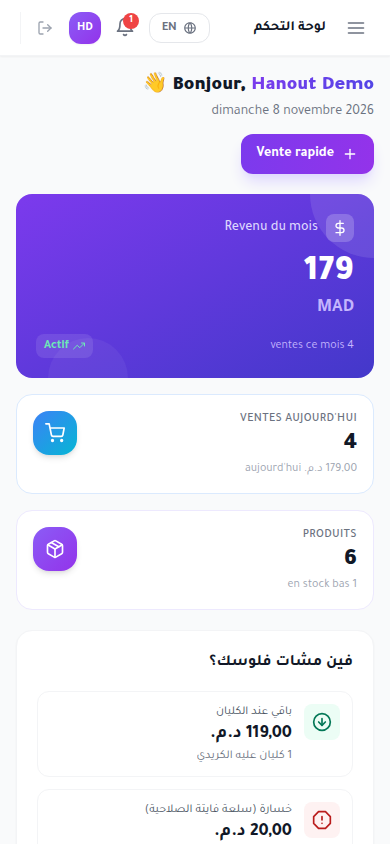
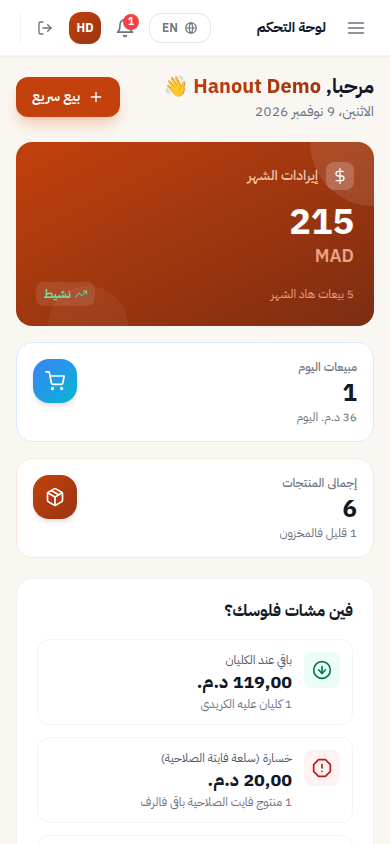
docs: refresh screenshots, README, executive report and audit status for passes 2-3
Claude-Session: https://claude.ai/code/session_01UfTiphmez7jrvMp4zFnNuu

diff --git a/docs/audit/REPORT.md b/docs/audit/REPORT.md
@@ -54,3 +54,44 @@ stack complète (Timescale, Weaviate, Celery) non lancée pendant la session (AP
 3. Obtenir un avis juridique sur la carte Souk.AI et choisir : partenaire agréé ou retrait.
 4. Mettre les rappels WhatsApp en conformité (opt-in, template utilitaire, fréquence hebdomadaire).
 5. Ajouter TVA par produit + traduction complète EN, prérequis pour un 2e marché.
+
+
+---
+
+## Passes 2 et 3 (2026-11-09) — logique métier, produit, marque
+
+**Correction d'une affirmation de la passe 1.** La protection contre la double vente du dernier article
+(`c109cd3`) ne fonctionnait pas de façon fiable : le verrou était pris, mais SQLAlchemy renvoyait l'objet déjà en
+mémoire avec une quantité périmée. Mesuré sur la suite complète : survente 4 fois sur 4 sans correctif, 0 sur 4 avec
+(`populate_existing` sur toutes les lectures verrouillées).
+
+| Domaine | Avant | Après |
+|---|---|---|
+| Bénéfice net mensuel | achats fournisseurs **et** coût des ventes soustraits (double comptage) | ventes − retours − coût des ventes − salaires (mois en cours au prorata) |
+| « Aujourd'hui » / « ce mois » | en UTC (jusqu'à 5 h d'écart aux US) | fuseau du commerçant |
+| Retours dans CA et marges | ignorés | déduits partout |
+| Marges passées | recalculées au coût actuel | coût figé à la vente |
+| Livraison fournisseur | ne touchait pas le stock | stock + coût moyen pondéré, une seule fois |
+| Ventes WhatsApp | sans contrôle de stock, plantage en cas d'erreur | même chemin que la caisse, réponse explicite |
+| Marketplace | pas de machine à états (annulations multiples = stock dupliqué) | transitions explicites + verrous |
+| Ajustement de stock | pouvait rendre le stock négatif ; changement de seuil en erreur 500 | refusé sous zéro, journalisé ; seuil corrigé |
+| Fusion de produits | fusion avec soi-même = stock détruit | refusée ; coût moyen pondéré |
+| Rappels WhatsApp | quotidiens, sans consentement | hebdomadaires, opt-in du client |
+| TVA | inexistante | taux par produit figé à la vente, rapport mensuel par taux, ventilation sur le ticket |
+| Tests | 44 + 2 e2e | **66** + 2 e2e |
+
+**Produit.** Menu réorganisé autour des tâches (vendre / gérer / comprendre) ; Rapports (Ventes, Marges, Réassort,
+TVA) remplace 3 entrées ; Inventaire fusionné dans Produits ; la page Ventes devient un historique avec retours
+(aucun écran ne permettait d'annuler une vente) ; les deux formulaires de vente qui doublaient la caisse sont retirés.
+**Retiré** : offres de prêt factices (D13), score de crédit affiché, intelligence de marché non anonymisée (D14),
+chiffres de traction et témoignages invérifiables de la landing et des pages de connexion.
+
+**Marque.** Identité neutre (auvent + courbe montante), tokens terracotta/menthe/sable/encre, contrastes WCAG AA
+mesurés, version une couleur, icônes d'application ; landing réécrite en FR/AR/EN ; caisse et tableau de bord
+entièrement traduits. Guide : `docs/BRAND.md`.
+
+**Reste à faire (mis à jour)**
+1. P0 : rotation des secrets, purge GitHub via le support (anciennes PR), `ADMIN_PHONE` au moment de la migration.
+2. P1 : traduire Produits, Clients, Fournisseurs, Paiements (≈ 300 textes encore en français) ; mode sombre.
+3. P1 : décision sur la carte Souk.AI (partenaire agréé) ; k-anonymat avant de rouvrir l'intelligence de marché.
+4. P2 : export comptable (CSV/FEC, UBL quand la DGI publiera le format) ; NF525/TSE avant la France/l'Allemagne.

diff --git a/docs/audit/PROGRESS.md b/docs/audit/PROGRESS.md
@@ -16,8 +16,13 @@ Horodatage UTC. Toutes les phases sont terminées ; voir REPORT.md pour la synth
 - [2026-11-09 01:50] Phase 4.5 — e2e Playwright + captures (`9f931ea`, `01239e9`).
 - [2026-11-09 02:10] Phase 3/5 — README FR/EN, `.env.example`, pays par défaut (`6b5449e`) ; mesures finales ; STRATEGY, RESEARCH, DECISIONS, BLOCKERS, REPORT.
 
+- [2026-11-09] Passe 2 — logique : analytics (fuseau, retours, coût figé, double comptage), service de vente unique,
+  inventaire, marketplace, fournisseurs (réception → stock), concurrence (`populate_existing`), rappels opt-in, fusion.
+- [2026-11-09] Passe 3 — produit/marque : identité neutre + tokens, navigation consolidée, Rapports, retours,
+  landing honnête FR/AR/EN, TVA par produit + rapport, caisse et tableau de bord traduits.
+
 ## État final
-44 tests backend + 2 e2e verts ; ruff 0 ; pip-audit 0 ; bandit 0 medium/high ; npm audit 2 modérées ; build OK.
+66 tests backend + 2 e2e verts ; ruff 0 ; pip-audit 0 ; bandit 0 medium/high ; npm audit 2 modérées ; build OK.
 
 ## Reste à faire
 Voir REPORT.md, sections « Reste à faire » et « Actions manuelles requises ».
